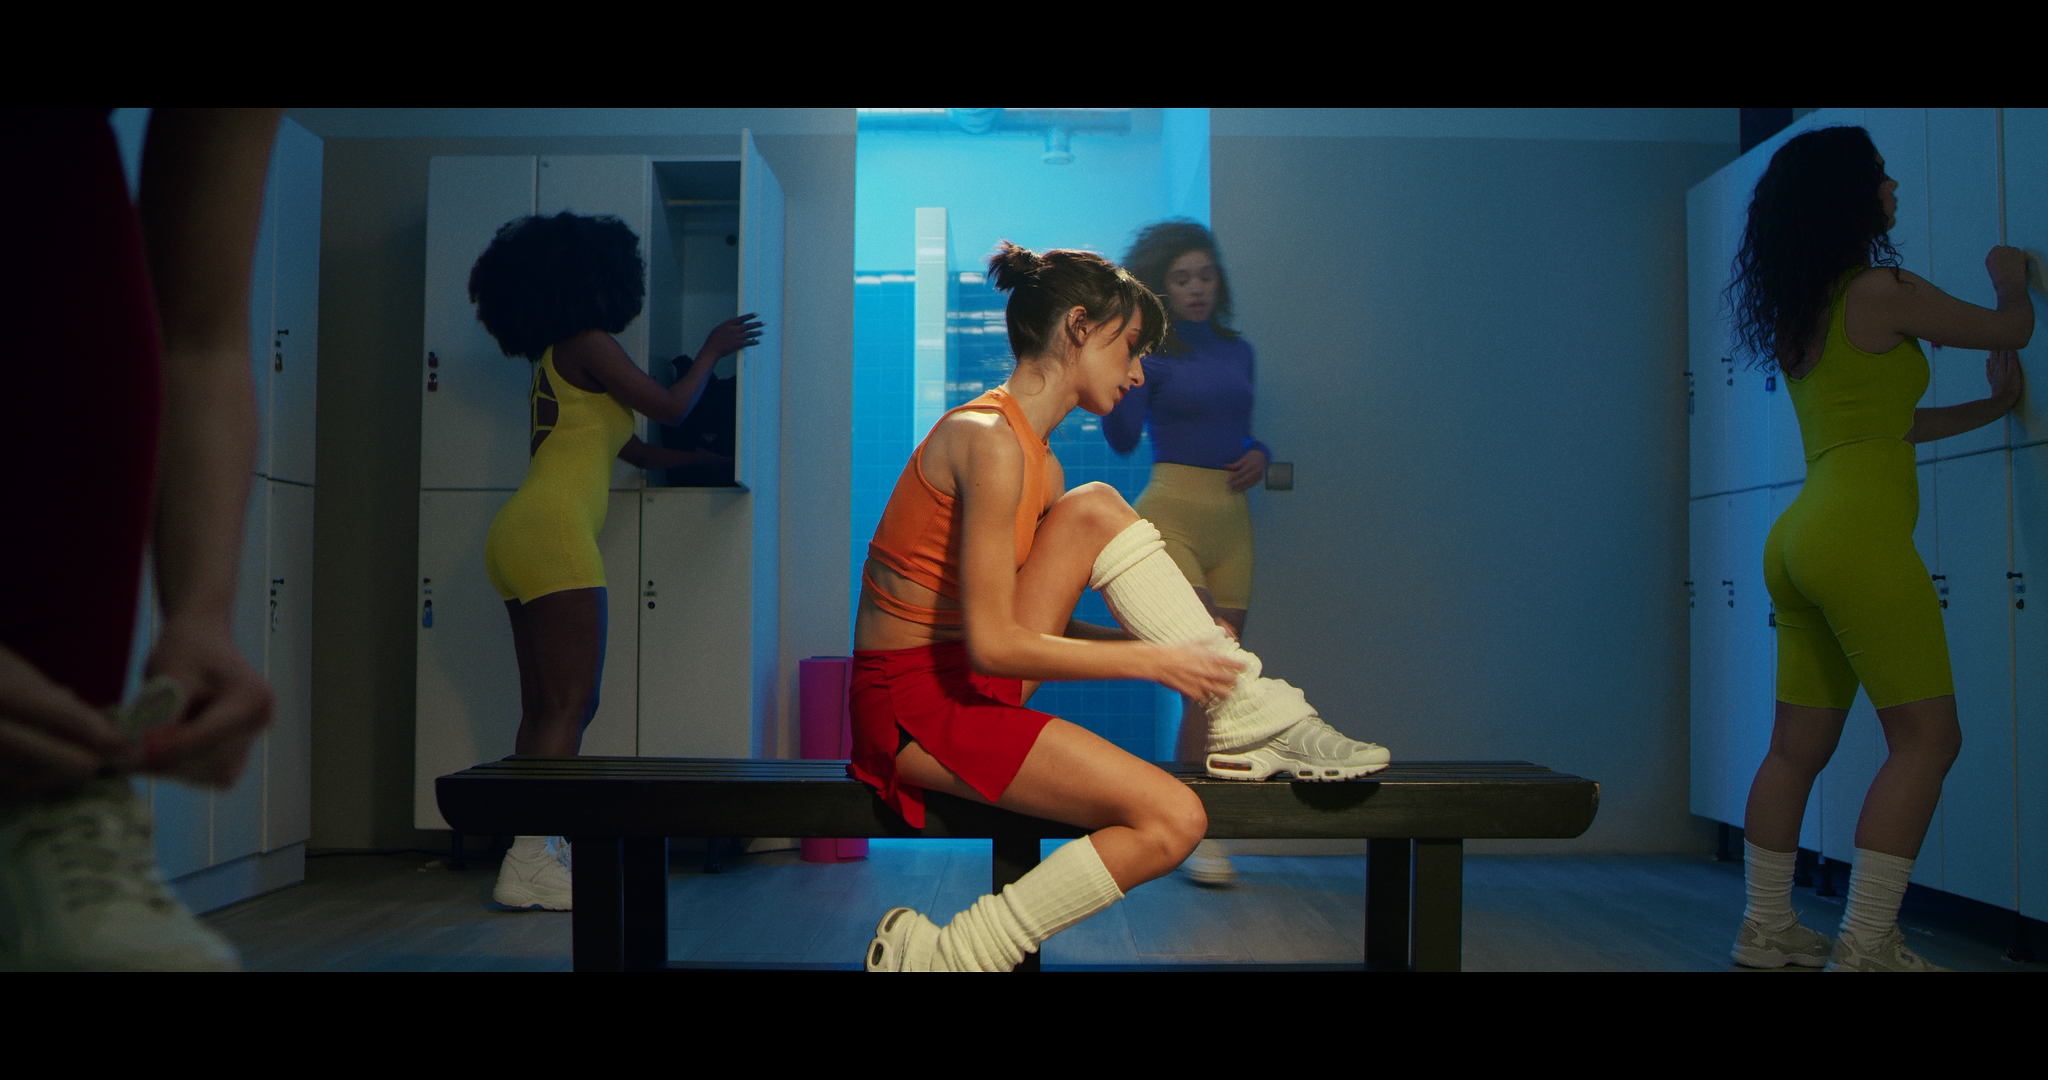
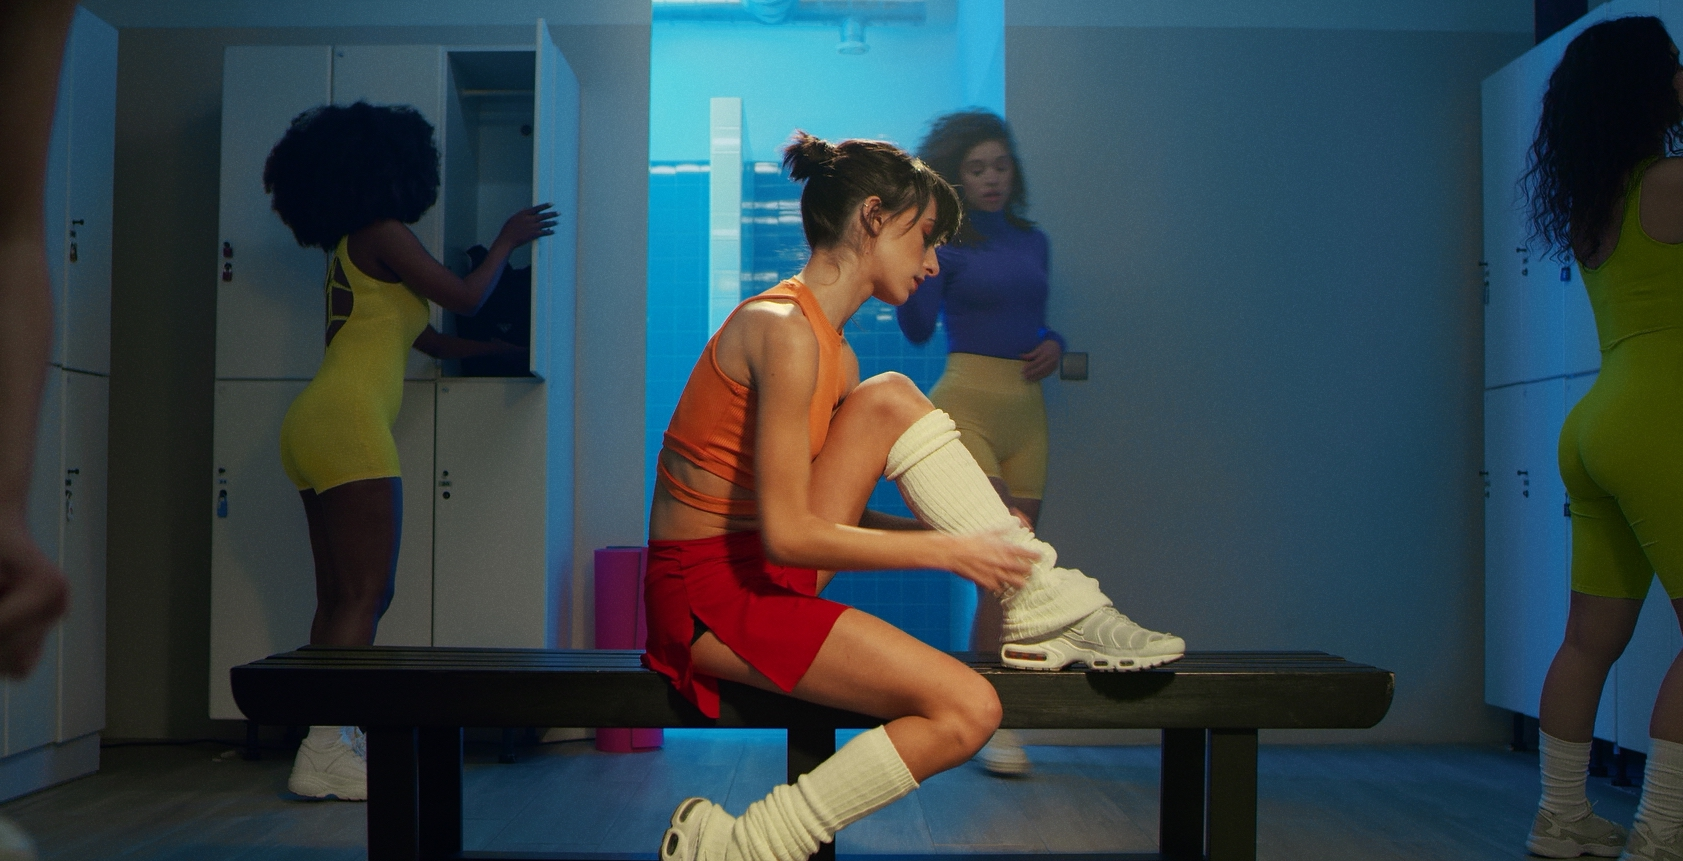
Update from Forestry.io AV 82 created assets/img/untitled_1-18-1.jpg AV 82 updated _film/matriz-tiago-nacarato.html

diff --git a/_film/matriz-tiago-nacarato.html b/_film/matriz-tiago-nacarato.html
@@ -69,7 +69,8 @@ video_embed: <div style="padding:52.73% 0 0 0;position:relative;"><iframe src="h
   style="position:absolute;top:0;left:0;width:100%;height:100%;" title="Tiago Nacarato
   - Matriz"></iframe></div><script src="https://player.vimeo.com/api/player.js"></script>
 video_thumbnail: "/assets/img/matriz_thumbnial.mp4"
-still_thumbnail: "/assets/img/untitled_1-18-1.jpg"
+still_thumbnail: ''
 large: true
 
 ---
+<img src="/assets/img/untitled_1-18-1.jpg">
